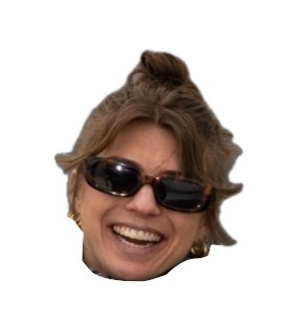
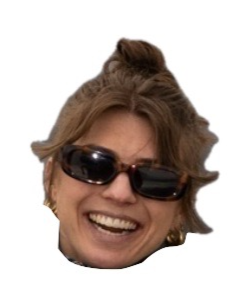
update

Changed region(s): [[0.112, 0.1123, 0.896, 0.9544], [0.644, 0.3368, 0.7, 0.3649]]

diff --git a/assets/subpages/ikarus-isla-blanca.md b/assets/subpages/ikarus-isla-blanca.md
@@ -87,50 +87,48 @@ allowfullscreen>
 
 ## 🤗 <span class="lang-fr">L'équipe</span><span class="lang-es">El equipo</span><span class="lang-en">The team</span>
 
-<span class="profile-trigger">Adriana<span class="profile-card"><img src="/roroad-trip/assets/images/mexico/people/adriana.png" class="profile-pic"><span class="flag-overlay">🇲🇽</span></span></span> & <span class="profile-trigger">Foka<span class="profile-card"><img src="/roroad-trip/assets/images/mexico/people/foka.png" class="profile-pic"><span class="flag-overlay">🇮🇹</span></span></span>
-
 <div class="lang-fr" markdown="1">
-  dirigent l'établissement qu'ils ont créé il y a maintenant 20 ans, où <span class="profile-trigger">[Anthar](https://www.instagram.com/antharracca/)<span class="profile-card"><img src="/roroad-trip/assets/images/mexico/people/anthar.png" class="profile-pic"><span class="flag-overlay">🇲🇽</span></span></span>, leur fils, a pu grandir et passe souvent pour s'entraîner.
+{{ site.profiles.ik_adriana }} &  {{ site.profiles.ik_foka }} dirigent l'établissement qu'ils ont créé il y a maintenant 20 ans, où {{ site.profiles.ik_anthar }}, leur fils, a pu grandir et passe souvent pour s'entraîner.
 
-  * <span class="profile-trigger">Esteban<span class="profile-card"><img src="/roroad-trip/assets/images/mexico/people/esteban.png" class="profile-pic"><span class="flag-overlay">🇲🇽</span></span></span> gère l'école de kite :
-  * les profs : <span class="profile-trigger">[Federico](https://www.instagram.com/fedebagnoli/)<span class="profile-card"><img src="/roroad-trip/assets/images/mexico/people/federico.png" class="profile-pic"><span class="flag-overlay">🇮🇹</span></span></span>, <span class="profile-trigger">[Mikey](https://www.instagram.com/mikeybarrillo/)<span class="profile-card"><img src="/roroad-trip/assets/images/mexico/people/mikey.png" class="profile-pic"><span class="flag-overlay">🇺🇸</span></span></span>, <span class="profile-trigger">[Sage](https://www.instagram.com/sageeee.k/)<span class="profile-card"><img src="/roroad-trip/assets/images/mexico/people/sage.png" class="profile-pic"><span class="flag-overlay">🇺🇸</span></span></span>, <span class="profile-trigger">[Belinda](https://www.instagram.com/belindacaribbeanlife.mx/)<span class="profile-card"><img src="/roroad-trip/assets/images/mexico/people/belinda.png" class="profile-pic"><span class="flag-overlay">🇲🇽</span></span></span>, <span class="profile-trigger">Kike<span class="profile-card"><img src="/roroad-trip/assets/images/mexico/people/kike.png" class="profile-pic"><span class="flag-overlay">🇲🇽</span></span></span>, <span class="profile-trigger">[Aldolfo](https://www.instagram.com/adolfre2manzano/)<span class="profile-card"><img src="/roroad-trip/assets/images/mexico/people/adolfo.png" class="profile-pic"><span class="flag-overlay">🇨🇴</span></span></span>.
-  * au support/rescue, prêts à aider à tout moment à coup de jetski : <span class="profile-trigger">Alex<span class="profile-card"><img src="/roroad-trip/assets/images/mexico/people/alex.png" class="profile-pic"><span class="flag-overlay">🇲🇽</span></span></span>, <span class="profile-trigger">Jesus<span class="profile-card"><img src="/roroad-trip/assets/images/mexico/people/jesus.png" class="profile-pic"><span class="flag-overlay">🇲🇽</span></span></span>, <span class="profile-trigger">Juan<span class="profile-card"><img src="/roroad-trip/assets/images/mexico/people/juan.png" class="profile-pic"><span class="flag-overlay">🇲🇽</span></span></span>
-  * En cuisine, tout est dirigé par <span class="profile-trigger">Anna-Maria<span class="profile-card"><img src="/roroad-trip/assets/images/mexico/people/anna-maria.png" class="profile-pic"><span class="flag-overlay">🇮🇹</span></span></span>.
-  * En cuisine : <span class="profile-trigger">Vicky<span class="profile-card"><img src="/roroad-trip/assets/images/mexico/people/vicky.png" class="profile-pic"><span class="flag-overlay">🇲🇽</span></span></span>, <span class="profile-trigger">Luis<span class="profile-card"><img src="/roroad-trip/assets/images/mexico/people/luis.png" class="profile-pic"><span class="flag-overlay">🇲🇽</span></span></span>, <span class="profile-trigger">Maria<span class="profile-card"><img src="/roroad-trip/assets/images/mexico/people/maria.png" class="profile-pic"><span class="flag-overlay">🇲🇽</span></span></span>, <span class="profile-trigger">Griselda<span class="profile-card"><img src="/roroad-trip/assets/images/mexico/people/griselda.png" class="profile-pic"><span class="flag-overlay">🇲🇽</span></span></span>
-  * Au bar à cocktails : <span class="profile-trigger">Yann<span class="profile-card"><img src="/roroad-trip/assets/images/mexico/people/yann.png" class="profile-pic"><span class="flag-overlay">🇲🇫</span></span></span> (l'après-midi) et <span class="profile-trigger">Miguel<span class="profile-card"><img src="/roroad-trip/assets/images/mexico/people/miguel.png" class="profile-pic"><span class="flag-overlay">🇲🇽</span></span></span> le soir.
+* {{ site.profiles.ik_esteban }} gère l'école de kite :
+  * les profs : {{ site.profiles.ik_federico }}, {{ site.profiles.ik_mikey }}, {{ site.profiles.ik_sage }}, {{ site.profiles.ik_belinda }}, {{ site.profiles.ik_kike }}, {{ site.profiles.ik_adolfo }}.
+  * au support/rescue, prêts à aider à tout moment à coup de jetski : {{ site.profiles.ik_alex }}, {{ site.profiles.ik_jesus }}, {{ site.profiles.ik_juan }}.
+* En cuisine, tout est dirigé par {{ site.profiles.ik_anna-maria }}.
+    * En cuisine : {{ site.profiles.ik_vicky }}, {{ site.profiles.ik_maria }}, {{ site.profiles.ik_luis }}, {{ site.profiles.ik_griselda }}
+    * Au bar à cocktails : {{ site.profiles.yann }} (l'après-midi) et {{ site.profiles.ik_miguel }} le soir.
 
-  À la réception des clients, c'est <span class="profile-trigger">Gloria<span class="profile-card"><img src="/roroad-trip/assets/images/mexico/people/gloria.png" class="profile-pic"><span class="flag-overlay">🇮🇹</span></span></span> qui s'occupe de tout.
+  À la réception des clients, c'est {{ site.profiles.ik_gloria }} qui s'occupe de tout.
 
-  On n'oublie pas la présence du trio de dogos inséparables <span class="profile-trigger">Lily<span class="profile-card"><img src="/roroad-trip/assets/images/mexico/people/lily.png" class="profile-pic"><span class="flag-overlay">🐶</span></span></span>, <span class="profile-trigger">Rex<span class="profile-card"><img src="/roroad-trip/assets/images/mexico/people/rex.png" class="profile-pic"><span class="flag-overlay">🐶</span></span></span> et <span class="profile-trigger">Louki (El Ratón)<span class="profile-card"><img src="/roroad-trip/assets/images/mexico/people/raton.png" class="profile-pic"><span class="flag-overlay">🐶</span></span></span>.
+  On n'oublie pas la présence du trio de dogos inséparables {{ site.profiles.ik_lily }}, {{ site.profiles.ik_rex }} et {{ site.profiles.ik_louki }}.
 </div>
 
 <div class="lang-es" markdown="1">
-  dirigen el establecimiento que crearon hace ya 20 años, donde <span class="profile-trigger">[Anthar](https://www.instagram.com/antharracca/)<span class="profile-card"><img src="/roroad-trip/assets/images/mexico/people/anthar.png" class="profile-pic"><span class="flag-overlay">🇲🇽</span></span></span>, su hijo, pudo crecer y al que viene a menudo para entrenar.
+  {{ site.profiles.ik_adriana }} y {{ site.profiles.ik_foka }} dirigen el establecimiento que fundaron hace ya 20 años, donde su hijo {{ site.profiles.ik_anthar }} creció y al que vuelve a menudo para entrenar.
 
-  * <span class="profile-trigger">Esteban<span class="profile-card"><img src="/roroad-trip/assets/images/mexico/people/esteban.png" class="profile-pic"><span class="flag-overlay">🇲🇽</span></span></span> gestiona la escuela de kite:
-  * los profesores: <span class="profile-trigger">[Federico](https://www.instagram.com/fedebagnoli/)<span class="profile-card"><img src="/roroad-trip/assets/images/mexico/people/federico.png" class="profile-pic"><span class="flag-overlay">🇮🇹</span></span></span>, <span class="profile-trigger">[Mikey](https://www.instagram.com/mikeybarrillo/)<span class="profile-card"><img src="/roroad-trip/assets/images/mexico/people/mikey.png" class="profile-pic"><span class="flag-overlay">🇺🇸</span></span></span>, <span class="profile-trigger">[Sage](https://www.instagram.com/sageeee.k/)<span class="profile-card"><img src="/roroad-trip/assets/images/mexico/people/sage.png" class="profile-pic"><span class="flag-overlay">🇺🇸</span></span></span>, <span class="profile-trigger">[Belinda](https://www.instagram.com/belindacaribbeanlife.mx/)<span class="profile-card"><img src="/roroad-trip/assets/images/mexico/people/belinda.png" class="profile-pic"><span class="flag-overlay">🇲🇽</span></span></span>, <span class="profile-trigger">Kike<span class="profile-card"><img src="/roroad-trip/assets/images/mexico/people/kike.png" class="profile-pic"><span class="flag-overlay">🇲🇽</span></span></span>, <span class="profile-trigger">[Aldolfo](https://www.instagram.com/adolfre2manzano/)<span class="profile-card"><img src="/roroad-trip/assets/images/mexico/people/adolfo.png" class="profile-pic"><span class="flag-overlay">🇨🇴</span></span></span>.
-  * en soporte/rescate, listos para ayudar en cualquier momento con las motos de agua: <span class="profile-trigger">Alex<span class="profile-card"><img src="/roroad-trip/assets/images/mexico/people/alex.png" class="profile-pic"><span class="flag-overlay">🇲🇽</span></span></span>, <span class="profile-trigger">Jesus<span class="profile-card"><img src="/roroad-trip/assets/images/mexico/people/jesus.png" class="profile-pic"><span class="flag-overlay">🇲🇽</span></span></span>, <span class="profile-trigger">Juan<span class="profile-card"><img src="/roroad-trip/assets/images/mexico/people/juan.png" class="profile-pic"><span class="flag-overlay">🇲🇽</span></span></span>
-  * En cocina todo está dirigido por <span class="profile-trigger">Anna-Maria<span class="profile-card"><img src="/roroad-trip/assets/images/mexico/people/anna-maria.png" class="profile-pic"><span class="flag-overlay">🇮🇹</span></span></span>.
-  * En cocina: <span class="profile-trigger">Vicky<span class="profile-card"><img src="/roroad-trip/assets/images/mexico/people/vicky.png" class="profile-pic"><span class="flag-overlay">🇲🇽</span></span></span>, <span class="profile-trigger">Luis<span class="profile-card"><img src="/roroad-trip/assets/images/mexico/people/luis.png" class="profile-pic"><span class="flag-overlay">🇲🇽</span></span></span>, <span class="profile-trigger">Maria<span class="profile-card"><img src="/roroad-trip/assets/images/mexico/people/maria.png" class="profile-pic"><span class="flag-overlay">🇲🇽</span></span></span>, <span class="profile-trigger">Griselda<span class="profile-card"><img src="/roroad-trip/assets/images/mexico/people/griselda.png" class="profile-pic"><span class="flag-overlay">🇲🇽</span></span></span>
-  * En el bar de cócteles: <span class="profile-trigger">Yann<span class="profile-card"><img src="/roroad-trip/assets/images/mexico/people/yann.png" class="profile-pic"><span class="flag-overlay">🇲🇫</span></span></span> (por la tarde) y <span class="profile-trigger">Miguel<span class="profile-card"><img src="/roroad-trip/assets/images/mexico/people/miguel.png" class="profile-pic"><span class="flag-overlay">🇲🇽</span></span></span> por la noche.
+  - {{ site.profiles.ik_esteban }} dirige la escuela de kite.
+  - Los instructores: {{ site.profiles.ik_federico }}, {{ site.profiles.ik_mikey }}, {{ site.profiles.ik_sage }}, {{ site.profiles.ik_belinda }}, {{ site.profiles.ik_kike }}, {{ site.profiles.ik_adolfo }}.
+  - En apoyo y rescate, listos para ayudar en cualquier momento en moto acuática: {{ site.profiles.ik_alex }}, {{ site.profiles.ik_jesus }}, {{ site.profiles.ik_juan }}.
+  - En la cocina, todo está bajo la dirección de {{ site.profiles.ik_anna-maria }}.
+  - En la cocina: {{ site.profiles.ik_vicky }}, {{ site.profiles.ik_maria }}, {{ site.profiles.ik_luis }}, {{ site.profiles.ik_griselda }}.
+  - En el bar de cócteles: {{ site.profiles.yann }} (por la tarde) y {{ site.profiles.ik_miguel }} por la noche.
 
-  En recepción de clientes, <span class="profile-trigger">Gloria<span class="profile-card"><img src="/roroad-trip/assets/images/mexico/people/gloria.png" class="profile-pic"><span class="flag-overlay">🇮🇹</span></span></span> se encarga de todo.
+  En la recepción de clientes, {{ site.profiles.ik_gloria }} se encarga de todo.
 
-  Y no nos olvidamos del inseparable trío de dogos: <span class="profile-trigger">Lily<span class="profile-card"><img src="/roroad-trip/assets/images/mexico/people/lily.png" class="profile-pic"><span class="flag-overlay">🐶</span></span></span>, <span class="profile-trigger">Rex<span class="profile-card"><img src="/roroad-trip/assets/images/mexico/people/rex.png" class="profile-pic"><span class="flag-overlay">🐶</span></span></span> y <span class="profile-trigger">Louki (El Ratón)<span class="profile-card"><img src="/roroad-trip/assets/images/mexico/people/raton.png" class="profile-pic"><span class="flag-overlay">🐶</span></span></span>.
+  Tampoco nos olvidamos del trío inseparable de perritos: {{ site.profiles.ik_lily }}, {{ site.profiles.ik_rex }} y {{ site.profiles.ik_louki }}.
 </div>
 <div class="lang-en" markdown="1">
-  run the establishment they created 20 years ago, where <span class="profile-trigger">[Anthar](https://www.instagram.com/antharracca/)<span class="profile-card"><img src="/roroad-trip/assets/images/mexico/people/anthar.png" class="profile-pic"><span class="flag-overlay">🇲🇽</span></span></span>, their son, grew up and often comes by to train.
+  {{ site.profiles.ik_adriana }} & {{ site.profiles.ik_foka }} run the establishment they founded 20 years ago, where their son {{ site.profiles.ik_anthar }} grew up and frequently stops by to train.
 
-  * <span class="profile-trigger">Esteban<span class="profile-card"><img src="/roroad-trip/assets/images/mexico/people/esteban.png" class="profile-pic"><span class="flag-overlay">🇲🇽</span></span></span> manages the kite school:
-  * the instructors: <span class="profile-trigger">[Federico](https://www.instagram.com/fedebagnoli/)<span class="profile-card"><img src="/roroad-trip/assets/images/mexico/people/federico.png" class="profile-pic"><span class="flag-overlay">🇮🇹</span></span></span>, <span class="profile-trigger">[Mikey](https://www.instagram.com/mikeybarrillo/)<span class="profile-card"><img src="/roroad-trip/assets/images/mexico/people/mikey.png" class="profile-pic"><span class="flag-overlay">🇺🇸</span></span></span>, <span class="profile-trigger">[Sage](https://www.instagram.com/sageeee.k/)<span class="profile-card"><img src="/roroad-trip/assets/images/mexico/people/sage.png" class="profile-pic"><span class="flag-overlay">🇺🇸</span></span></span>, <span class="profile-trigger">[Belinda](https://www.instagram.com/belindacaribbeanlife.mx/)<span class="profile-card"><img src="/roroad-trip/assets/images/mexico/people/belinda.png" class="profile-pic"><span class="flag-overlay">🇲🇽</span></span></span>, <span class="profile-trigger">Kike<span class="profile-card"><img src="/roroad-trip/assets/images/mexico/people/kike.png" class="profile-pic"><span class="flag-overlay">🇲🇽</span></span></span>, <span class="profile-trigger">[Aldolfo](https://www.instagram.com/adolfre2manzano/)<span class="profile-card"><img src="/roroad-trip/assets/images/mexico/people/adolfo.png" class="profile-pic"><span class="flag-overlay">🇨🇴</span></span></span>.
-  * on support/rescue, ready to help at any time on their jet skis: <span class="profile-trigger">Alex<span class="profile-card"><img src="/roroad-trip/assets/images/mexico/people/alex.png" class="profile-pic"><span class="flag-overlay">🇲🇽</span></span></span>, <span class="profile-trigger">Jesus<span class="profile-card"><img src="/roroad-trip/assets/images/mexico/people/jesus.png" class="profile-pic"><span class="flag-overlay">🇲🇽</span></span></span>, <span class="profile-trigger">Juan<span class="profile-card"><img src="/roroad-trip/assets/images/mexico/people/juan.png" class="profile-pic"><span class="flag-overlay">🇲🇽</span></span></span>
-  * In the kitchen, everything is run by <span class="profile-trigger">Anna-Maria<span class="profile-card"><img src="/roroad-trip/assets/images/mexico/people/anna-maria.png" class="profile-pic"><span class="flag-overlay">🇮🇹</span></span></span>.
-  * In the kitchen: <span class="profile-trigger">Vicky<span class="profile-card"><img src="/roroad-trip/assets/images/mexico/people/vicky.png" class="profile-pic"><span class="flag-overlay">🇲🇽</span></span></span>, <span class="profile-trigger">Luis<span class="profile-card"><img src="/roroad-trip/assets/images/mexico/people/luis.png" class="profile-pic"><span class="flag-overlay">🇲🇽</span></span></span>, <span class="profile-trigger">Maria<span class="profile-card"><img src="/roroad-trip/assets/images/mexico/people/maria.png" class="profile-pic"><span class="flag-overlay">🇲🇽</span></span></span>, <span class="profile-trigger">Griselda<span class="profile-card"><img src="/roroad-trip/assets/images/mexico/people/griselda.png" class="profile-pic"><span class="flag-overlay">🇲🇽</span></span></span>
-  * At the cocktail bar: <span class="profile-trigger">Yann<span class="profile-card"><img src="/roroad-trip/assets/images/mexico/people/yann.png" class="profile-pic"><span class="flag-overlay">🇲🇫</span></span></span> (in the afternoon) and <span class="profile-trigger">Miguel<span class="profile-card"><img src="/roroad-trip/assets/images/mexico/people/miguel.png" class="profile-pic"><span class="flag-overlay">🇲🇽</span></span></span> in the evening.
+  - {{ site.profiles.ik_esteban }} manages the kite school.
+  - The instructors: {{ site.profiles.ik_federico }}, {{ site.profiles.ik_mikey }}, {{ site.profiles.ik_sage }}, {{ site.profiles.ik_belinda }}, {{ site.profiles.ik_kike }}, {{ site.profiles.ik_adolfo }}.
+  - For rescue/support, ready to help at any moment on the jet skis: {{ site.profiles.ik_alex }}, {{ site.profiles.ik_jesus }}, {{ site.profiles.ik_juan }}.
+  - In the kitchen, everything is run by {{ site.profiles.ik_anna-maria }}.
+  - Kitchen team: {{ site.profiles.ik_vicky }}, {{ site.profiles.ik_maria }}, {{ site.profiles.ik_luis }}, {{ site.profiles.ik_griselda }}.
+  - At the cocktail bar: {{ site.profiles.yann }} (afternoons) and {{ site.profiles.ik_miguel }} (evenings).
 
-  At reception, <span class="profile-trigger">Gloria<span class="profile-card"><img src="/roroad-trip/assets/images/mexico/people/gloria.png" class="profile-pic"><span class="flag-overlay">🇮🇹</span></span></span> takes care of everything.
+  At guest reception, {{ site.profiles.ik_gloria }} takes care of everything.
 
-  And of course, we can't forget the inseparable trio of dogos: <span class="profile-trigger">Lily<span class="profile-card"><img src="/roroad-trip/assets/images/mexico/people/lily.png" class="profile-pic"><span class="flag-overlay">🐶</span></span></span>, <span class="profile-trigger">Rex<span class="profile-card"><img src="/roroad-trip/assets/images/mexico/people/rex.png" class="profile-pic"><span class="flag-overlay">🐶</span></span></span> and <span class="profile-trigger">Louki (El Ratón)<span class="profile-card"><img src="/roroad-trip/assets/images/mexico/people/raton.png" class="profile-pic"><span class="flag-overlay">🐶</span></span></span>.
+  And we can't forget the inseparable trio of dogs: {{ site.profiles.ik_lily }}, {{ site.profiles.ik_rex }}, and {{ site.profiles.ik_louki }}.
 </div>
 
 <div class="lang-fr" markdown="1">

diff --git a/assets/subpages/mancora.md b/assets/subpages/mancora.md
@@ -32,11 +32,32 @@ track_id: 253A51218033
   </iframe>
 </div>
 
-<span class="lang-fr">Personnages principaux:</span><span class="lang-en">Main Characters:</span><span class="lang-es">Personajes principales:</span>
-* <span class="profile-trigger">Eline<span class="profile-card"><img src="/roroad-trip/assets/images/peru/people/eline.png" class="profile-pic"><span class="flag-overlay">🇳🇱</span></span></span>: <span class="lang-fr">Binôme à l'école</span><span class="lang-es">Compañera de equipo en la escuela</span><span class="lang-en">Teammate at the school</span>👯
-* <span class="profile-trigger">Mazzy<span class="profile-card"><img src="/roroad-trip/assets/images/peru/people/mazzy.png" class="profile-pic"><span class="flag-overlay">🇺🇸</span></span></span>: <span class="lang-fr">Volontaire à La Maison (endroit où on habite)</span><span class="lang-es">Voluntario en La Maison (el lugar donde vivimos)</span><span class="lang-en">Volunteer at La Maison (the place where we live)</span>
-* <span class="profile-trigger">Carl<span class="profile-card"><img src="/roroad-trip/assets/images/peru/people/carl.png" class="profile-pic"><span class="flag-overlay">🐱</span></span></span>: <span class="lang-fr">Importateur de good vibes</span><span class="lang-es">Importador de buenas vibras</span><span class="lang-en">Importer of good vibes</span>
-* <span class="profile-trigger">Bing<span class="profile-card"><img src="/roroad-trip/assets/images/peru/people/bing.png" class="profile-pic"><span class="flag-overlay">🐱</span></span></span>: <span class="lang-fr">Chapardeur de la nuit</span><span class="lang-es">Merodeador de la noche</span><span class="lang-en">Night snatcher</span>
+<div class="lang-fr" markdown="1">
+  Personnages principaux:
+  * {{ site.profiles.wkp_eline }}: Binôme à l'école 👯
+  * {{ site.profiles.wkp_mazzy }}: Volontaire à La Maison (endroit où on habite)
+  * {{ site.profiles.wkp_martin }}: Joyeux kiteur, arrivé en seconde partie
+  * {{ site.profiles.wkp_carl }}: Importateur de good vibes
+  * {{ site.profiles.wkp_bing }}: Chapardeur de la nuit
+</div>
+
+<div class="lang-en" markdown="1">
+  Main Characters:
+  * {{ site.profiles.wkp_eline }}: Teammate at the school 👯
+  * {{ site.profiles.wkp_mazzy }}: Volunteer at La Maison (the place where we live)
+  * {{ site.profiles.wkp_martin }}: Happy kiter who joined in the second half
+  * {{ site.profiles.wkp_carl }}: Importer of good vibes
+  * {{ site.profiles.wkp_bing }}: Night snatcher
+</div>
+
+<div class="lang-es" markdown="1">
+  Personajes principales:
+  * {{ site.profiles.wkp_eline }}: Compañera de equipo en la escuela 👯
+  * {{ site.profiles.wkp_mazzy }}: Voluntario en La Maison (el lugar donde vivimos)
+  * {{ site.profiles.wkp_martin }}: Kiter alegre, llegó en la segunda mitads
+  * {{ site.profiles.wkp_carl }}: Importador de buenas vibras
+  * {{ site.profiles.wkp_bing }}: Merodeador de la noche
+</div>
 
 
 # <span class="lang-fr">Le volontariat</span><span class="lang-en">Volunteering</span><span class="lang-es">El voluntariado</span>
@@ -75,18 +96,30 @@ track_id: 253A51218033
 
 ### Le Kite
 
-<div style="text-align: center;">
-<img src="/roroad-trip/assets/images/peru/mancora-windguru.png" alt="Description of image" width="800">
-</div>
 
 <div class="lang-fr" markdown="1">
+L'équipe de kite:
+* Le chef {{ site.profiles.wkp_axel }}
+* Les instructeurs: {{ site.profiles.wkp_valentin }}, {{ site.profiles.wkp_humberto }}, {{ site.profiles.wkp_guillaume }}, {{ site.profiles.wkp_fredo }}
+* le tchatcheur de la plage {{ site.profiles.wkp_carlos }}
 
 </div>
 <div class="lang-es" markdown="1">
+El equipo de kite:
+* El jefe: {{ site.profiles.wkp_axel }}
+* Los instructores: {{ site.profiles.wkp_valentin }}, {{ site.profiles.wkp_humberto }}, {{ site.profiles.wkp_guillaume }}, {{ site.profiles.wkp_fredo }}
+* El floro de la playa: {{ site.profiles.wkp_carlos }}
 
 </div>
 <div class="lang-en" markdown="1">
-    
+The kite team:
+* The manager: {{ site.profiles.wkp_axel }}
+* The instructors: {{ site.profiles.wkp_valentin }}, {{ site.profiles.wkp_humberto }}, {{ site.profiles.wkp_guillaume }}, {{ site.profiles.wkp_fredo }}
+* The beach smooth-talker guy on the beach: {{ site.profiles.wkp_carlos }}
+</div>
+
+<div style="text-align: center;">
+<img src="/roroad-trip/assets/images/peru/mancora-windguru.png" alt="Description of image" width="800">
 </div>
 
 <div class="carousel-container">
@@ -156,25 +189,28 @@ track_id: 253A51218033
 <div class="lang-fr" markdown="1">
   Grand concours de cocktails & autres dégustations (incluant les fameux coquishots 🐚):
   1. Coquishot 🐚
-  2. Pisco Sour 🇵🇪
-  3. Pisco Sour 🇵🇪
-  4&5. Mazzy recette spéciale
+  2. Pisco Sour 🇵🇪 (yann)
+  3. Chicha Morada 🇵🇪 (eline)
+  4. Lava Cocktail 🌋 (Mazzy recette spéciale)
+  5. bis
   6. Degustation de vin avec Yannadelrey
 </div>
 <div class="lang-es" markdown="1">
   Gran concurso de cócteles y otras degustaciones (incluyendo los famosos coquishots 🐚):
   1. Coquishot 🐚
-  2. Pisco Sour 🇵🇪
-  3. Pisco Sour 🇵🇪
-  4&5. Receta especial de Mazzy
+  2. Pisco Sour 🇵🇪 (yann)
+  3. Chicha Morada 🇵🇪 (eline)
+  4. Lava Cocktail 🌋 (Receta especial de Mazzy)
+  5. bis
   6. Cata de vinos con Yannadelrey
 </div>
 <div class="lang-en" markdown="1">
   Big cocktail competition & other tastings (including the famous coquishots 🐚):
   1. Coquishot 🐚
-  2. Pisco Sour 🇵🇪
-  3. Pisco Sour 🇵🇪
-  4&5. Mazzy's special recipe
+  2. Pisco Sour 🇵🇪 (yann)
+  3. Chicha Morada 🇵🇪 (eline)
+  4. Lava Cocktail 🌋 (Mazzy's special)
+  5. bis
   6. Wine tasting with Yannadelrey
 </div>
 
@@ -274,27 +310,30 @@ track_id: 253A51218033
 
 <div class="lang-fr" markdown="1">
   Les semaines et les évènements à Mancora sont très rythmés: 
-  * Tous les soirs c'est jeu libre en beachvolley à partir de 18h30
-  * Mardi et Jeudi matin à 7h00 c'est entraînement de beachvolley
-  * Les jeudis soirs c'est soirée Salsa au Psygon 💃
-  * Samedi soirée au Qema
-  * Tous les 15j le vendredi: tournois de volley et djset house au Papa Mo's
+  * 🏐 Tous les soirs c'est jeu libre en beachvolley à partir de 18h30
+  * ⚽ Lundi et Mercredi c'est five au terrain de mancora 
+  * 🏐 Mardi et Jeudi matin à 7h00 c'est entraînement de beachvolley
+  * 💃 Les jeudis soirs c'est soirée Salsa au Psygon 
+  * 🪩 Samedi soirée au Qema 
+  * 🛖 Tous les 15j le vendredi: tournois de volley et djset house au Papa Mo's 
 </div>
 <div class="lang-es" markdown="1">
   Las semanas y los eventos en Máncora tienen mucho ritmo:
-  * Todas las tardes/noches hay vóley playa libre a partir de las 18:30 h
-  * Los martes y jueves por la mañana a las 7:00 h hay entrenamiento de vóley playa
+  * 🏐 Todas las tardes/noches hay vóley playa libre a partir de las 18:30
+  * ⚽ Los lunes y miércoles hay pichanga de 5 en la cancha de Máncora
+  * 🏐 Los martes y jueves por la mañana a las 7:00 h hay entrenamiento de vóley playa
   * Los jueves por la noche hay noche de salsa en el Psygon 💃
   * Los sabados por la noche hay fiesta en el Qema
-  * Cada 15 días, los viernes: torneo de vóley y sesión de DJ house al Papa Mo's
+  * 🛖 Cada 15 días, los viernes: torneo de vóley y sesión de DJ house al Papa Mo's
 </div>
 <div class="lang-en" markdown="1">
   Weeks and events in Mancora have a great rhythm:
-  * Every evening starting at 6:30 PM there is casual beach volleyball
-  * Tuesday and Thursday mornings at 7:00 AM there is beach volleyball training
-  * Thursday nights it's Salsa night at Psygon 💃
-  * Saturday night it's party time at Qema
-  * Every two weeks on Friday: volleyball tournament and house DJ set at Papa Mo's
+  * 🏐 Every evening starting at 6:30 PM there is casual beach volleyball
+  * ⚽ Mondays and Wednesdays it's 5-a-side at the Mancora pitch
+  * 🏐 Tuesday and Thursday mornings at 7:00 AM there is beach volleyball training
+  * 💃 Thursday nights it's Salsa night at Psygon 💃
+  * 🪩 Saturday night it's party time at Qema
+  * 🛖 Every two weeks on Friday: volleyball tournament and house DJ set at Papa Mo's
 </div>
 
 <div class="carousel-container">
